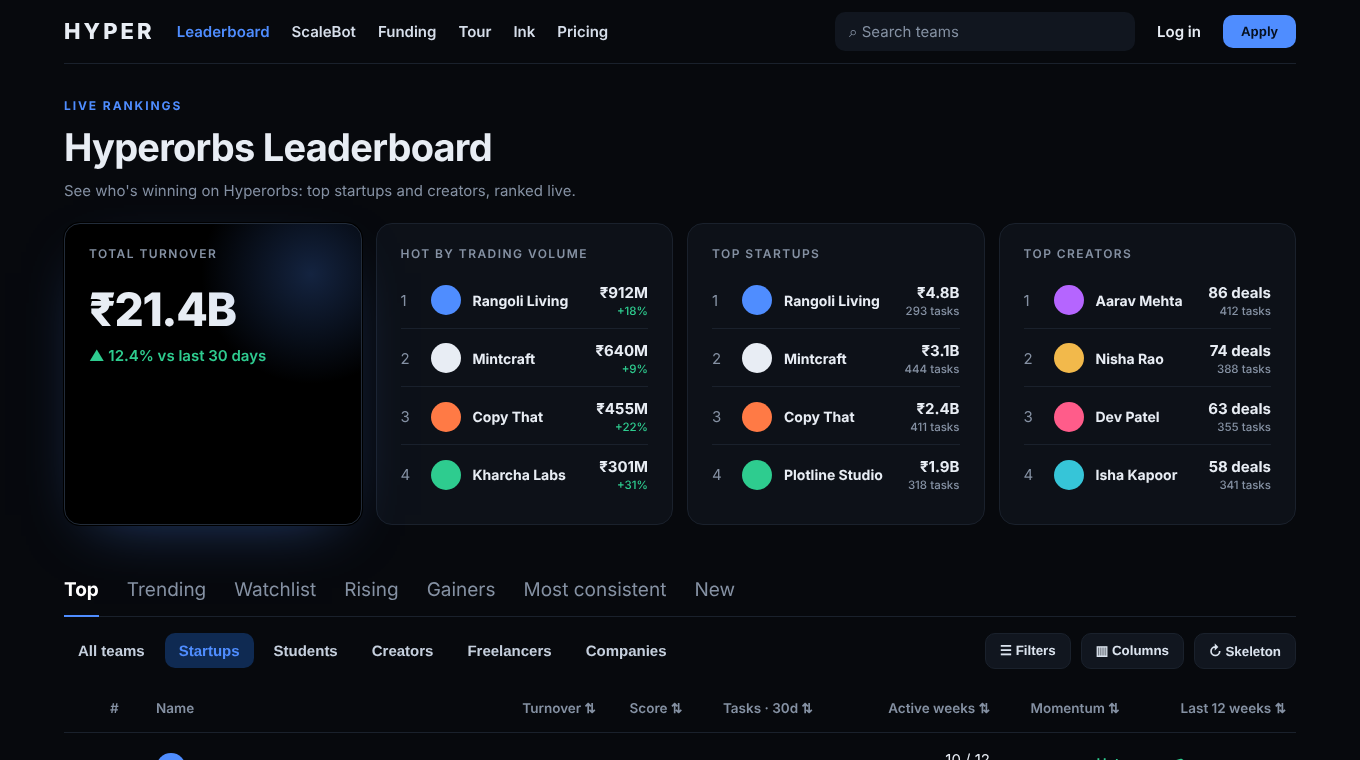
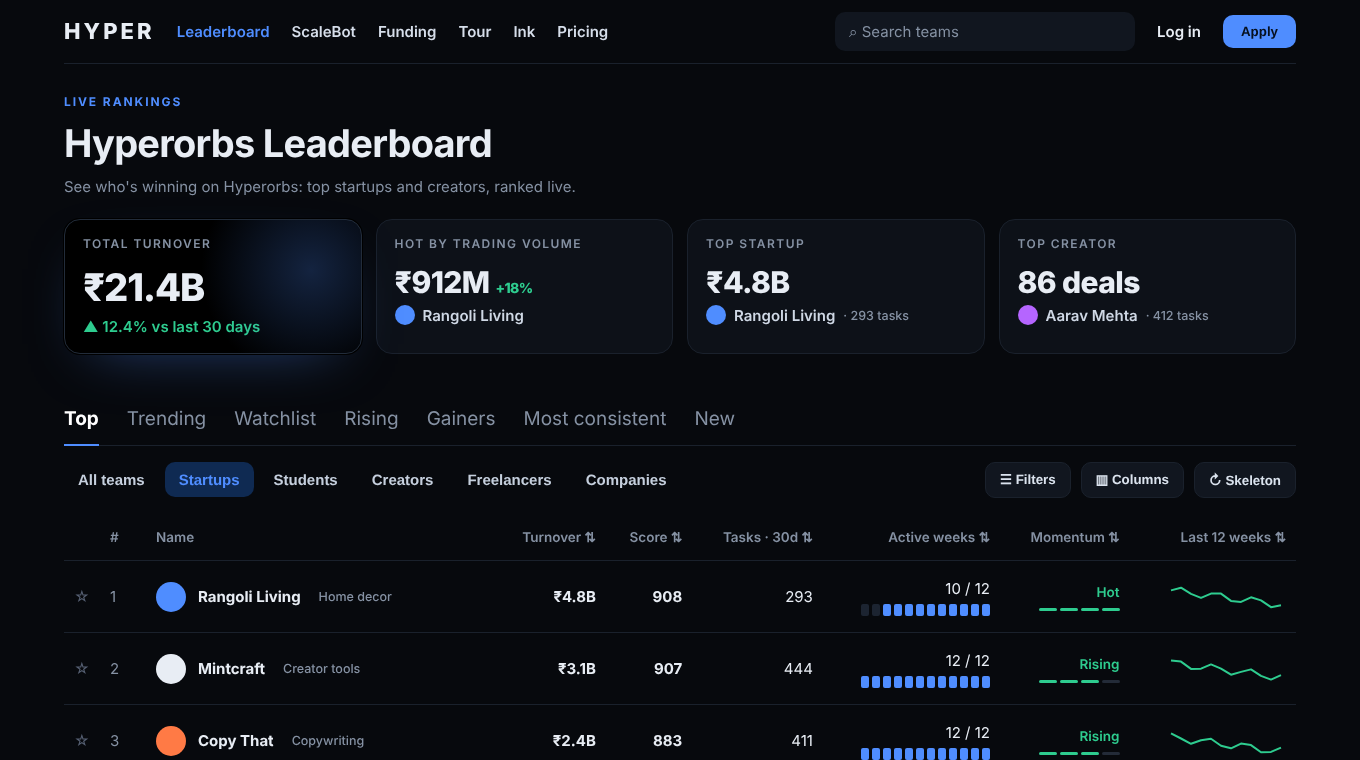
Hyperorbs leaderboard: compact four-box hero per sketch
Claude-Session: https://claude.ai/code/session_014ode3LYNBhb6YGg7AxyYQM

diff --git a/hyperorbs-leaderboard/index.html b/hyperorbs-leaderboard/index.html
@@ -9,16 +9,16 @@ nav{display:flex;align-items:center;gap:22px;height:64px;border-bottom:1px solid
 .logo{font-weight:800;letter-spacing:.14em;font-size:22px}.nav{display:flex;gap:22px}.nav a{color:#d6deea;font-weight:600}.nav a.on{color:var(--blue)}
 .sp{flex:1}.search{display:flex;align-items:center;gap:8px;background:#11161f;border-radius:10px;padding:9px 14px;width:300px;color:var(--mut)}
 .btn{background:var(--blue);color:#06101f;border:0;border-radius:10px;padding:9px 18px;font-weight:700;cursor:pointer}
-.hero{padding:34px 0 10px}.eyebrow{color:var(--blue);font-weight:700;letter-spacing:.16em;font-size:12px;text-transform:uppercase}
+.hero{padding:30px 0 10px}.eyebrow{color:var(--blue);font-weight:700;letter-spacing:.16em;font-size:12px;text-transform:uppercase}
 h1{font-size:38px;margin:6px 0 6px;letter-spacing:-.02em}.sub{color:var(--mut);margin:0 0 22px}
 .boxes{display:grid;grid-template-columns:repeat(4,1fr);gap:14px}
-.box{border-radius:16px;padding:22px 24px;border:1px solid var(--line);background:var(--panel);min-height:250px}
+.box{border-radius:16px;padding:22px 24px;border:1px solid var(--line);background:var(--panel);min-height:128px;padding:16px 18px}
 .box.black{background:#000;border-color:#222c3a;box-shadow:0 0 0 1px #000,0 20px 60px -30px rgba(79,141,255,.5);position:relative;overflow:hidden}
 .box.black:after{content:"";position:absolute;right:-60px;top:-60px;width:220px;height:220px;border-radius:50%;background:radial-gradient(closest-side,rgba(79,141,255,.25),transparent)}
 .lbl{color:var(--mut);font-size:12px;letter-spacing:.12em;text-transform:uppercase;font-weight:600}
-.big{font-size:46px;font-weight:800;letter-spacing:-.03em;margin:14px 0 4px}.chg{color:var(--green);font-weight:600}
+.big{font-size:38px;font-weight:800;letter-spacing:-.03em;margin:8px 0 2px}.chg{color:var(--green);font-weight:600}
 .hot{display:flex;flex-direction:column;gap:2px;margin-top:10px}.hrow{display:flex;align-items:center;gap:12px;padding:9px 0;border-bottom:1px solid var(--line)}.hrow:last-child{border:0}
-.av{width:30px;height:30px;border-radius:50%;flex:none}.hv{margin-left:auto;font-weight:700;text-align:right}.hrow b{font-size:14px}.hrow small.s{white-space:nowrap;color:var(--mut);display:block;font-weight:500;font-size:11.5px}.hr{color:var(--mut);width:18px}
+.cv{font-size:30px;font-weight:800;letter-spacing:-.02em;margin:8px 0 2px}.cs{display:flex;align-items:center;gap:8px;font-weight:600;color:#cfd8e5}.cs small{color:var(--mut);font-weight:500}.av{width:30px;height:30px;border-radius:50%;flex:none}.hv{margin-left:auto;font-weight:700;text-align:right}.hrow b{font-size:14px}.hrow small.s{white-space:nowrap;color:var(--mut);display:block;font-weight:500;font-size:11.5px}.hr{color:var(--mut);width:18px}
 .tabs{display:flex;gap:28px;margin-top:30px;border-bottom:1px solid var(--line)}.tab{padding:12px 0;color:var(--mut);font-size:19px;cursor:pointer;position:relative}.tab.on{color:#fff;font-weight:700}.tab.on:after{content:"";position:absolute;left:0;right:0;bottom:-1px;height:2px;background:var(--blue)}
 .bar{display:flex;align-items:center;gap:8px;padding:16px 0}.chip{padding:9px 14px;border-radius:10px;color:#c5cfdd;font-weight:600;cursor:pointer;background:transparent;border:0;font-size:15px}.chip.on{background:#0f2a52;color:var(--blue)}
 .tools{margin-left:auto;display:flex;gap:10px}.tbtn{background:#11161f;border:1px solid var(--line);color:#dbe3ee;padding:9px 14px;border-radius:10px;font-weight:600;cursor:pointer}
@@ -45,9 +45,9 @@ tr.row:hover td{background:#0b0f16}.rank{color:var(--mut);width:46px}.star{color
 <p class="sub">See who's winning on Hyperorbs: top startups and creators, ranked live.</p>
 <div class="boxes">
 <div class="box black"><div class="lbl">Total Turnover</div><div id="turn" class="big"></div><div class="chg" id="turnchg"></div></div>
-<div class="box"><div class="lbl">Hot by Trading Volume</div><div class="hot" id="hot"></div></div>
-<div class="box"><div class="lbl">Top Startups</div><div class="hot" id="topS"></div></div>
-<div class="box"><div class="lbl">Top Creators</div><div class="hot" id="topC"></div></div>
+<div class="box"><div class="lbl">Hot by Trading Volume</div><div id="hot"></div></div>
+<div class="box"><div class="lbl">Top Startup</div><div id="topS"></div></div>
+<div class="box"><div class="lbl">Top Creator</div><div id="topC"></div></div>
 </div></section>
 
 <div class="tabs" id="tabs"></div>
@@ -73,9 +73,10 @@ function render(){
  document.getElementById("turn").innerHTML=loading?'<span class="sk" style="width:260px;height:56px"></span>':cur+fmt(TOTAL);
  document.getElementById("turn").title=loading?"":cur+TOTAL.toLocaleString("en-IN");
  document.getElementById("turnchg").innerHTML=loading?'<span class="sk" style="width:130px;height:16px"></span>':"▲ 12.4% vs last 30 days";
- document.getElementById("hot").innerHTML=vol.slice(0,4).map((v,i)=>loading?skRow(i):`<div class="hrow"><span class="hr">${i+1}</span><span class="av" style="background:${pal[i]}"></span><b>${v[0]}</b><span class="hv">${cur}${fmt(v[1])}<small class="s" style="color:var(--green)">${v[2]}</small></span></div>`).join("");
- document.getElementById("topS").innerHTML=startups.slice(0,4).map((d,i)=>loading?skRow(i):`<div class="hrow"><span class="hr">${i+1}</span><span class="av" style="background:${pal[i]}"></span><b>${d[0]}</b><span class="hv">${cur}${fmt(d[2])}<small class="s">${d[3]} tasks</small></span></div>`).join("");
- document.getElementById("topC").innerHTML=creators.slice(0,4).map((d,i)=>loading?skRow(i):`<div class="hrow"><span class="hr">${i+1}</span><span class="av" style="background:${pal[(i+4)%10]}"></span><b>${d[0]}</b><span class="hv">${d[2]} deals<small class="s">${d[3]} tasks</small></span></div>`).join("");
+ const cb=(av,big,sub,subc)=>loading?`<div class="sk" style="width:150px;height:30px;margin:10px 0 8px"></div><div class="sk" style="width:110px;height:13px"></div>`:`<div class="cv">${big}</div><div class="cs"><span class="av" style="background:${av};width:20px;height:20px"></span>${sub}</div>`;
+ document.getElementById("hot").innerHTML=cb(pal[0],cur+fmt(vol[0][1])+' <small style="color:var(--green);font-size:14px">'+vol[0][2]+'</small>',vol[0][0]);
+ document.getElementById("topS").innerHTML=cb(pal[0],cur+fmt(startups[0][2]),startups[0][0]+' <small>· '+startups[0][3]+' tasks</small>');
+ document.getElementById("topC").innerHTML=cb(pal[4],creators[0][2]+' deals',creators[0][0]+' <small>· '+creators[0][3]+' tasks</small>');
  document.getElementById("tabs").innerHTML=views.map(v=>`<div class="tab ${v==view?"on":""}" data-v="${v}">${v}</div>`).join("");
  document.getElementById("chips").innerHTML=cats.map(c=>`<button class="chip ${c==cat?"on":""}" data-c="${c}">${c}</button>`).join("");
  const isC=cat=="Creators";const data=isC?creators:startups;
